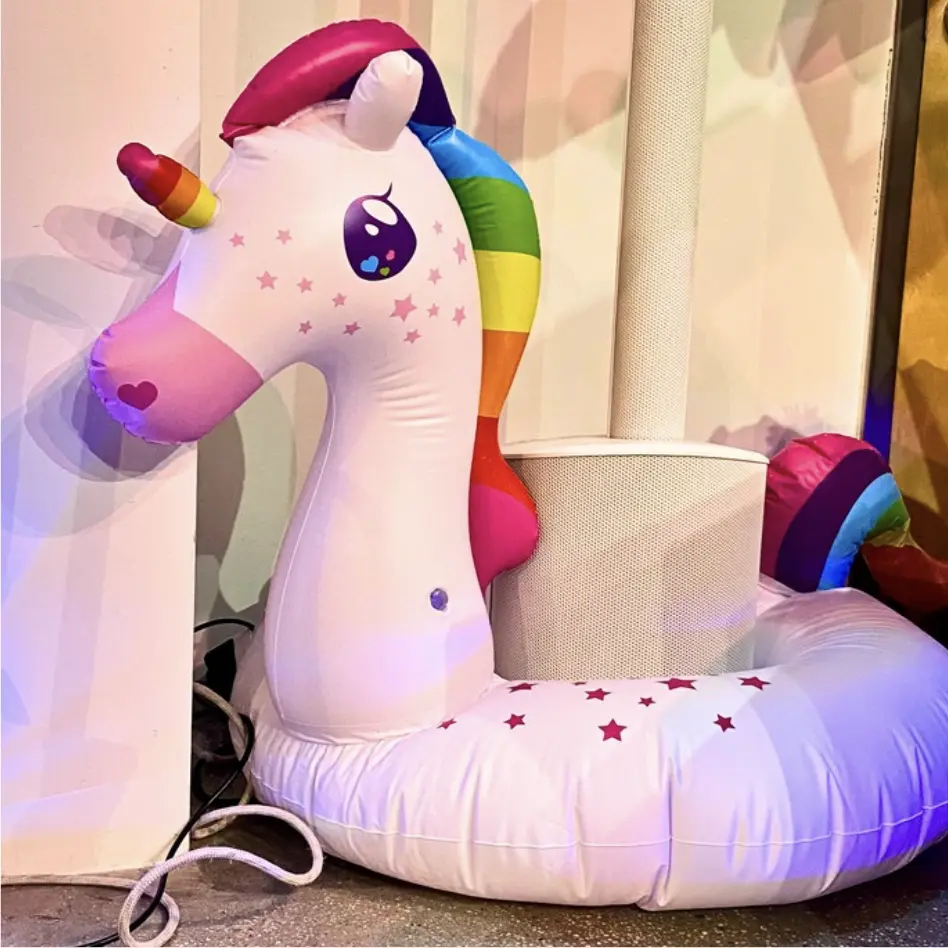
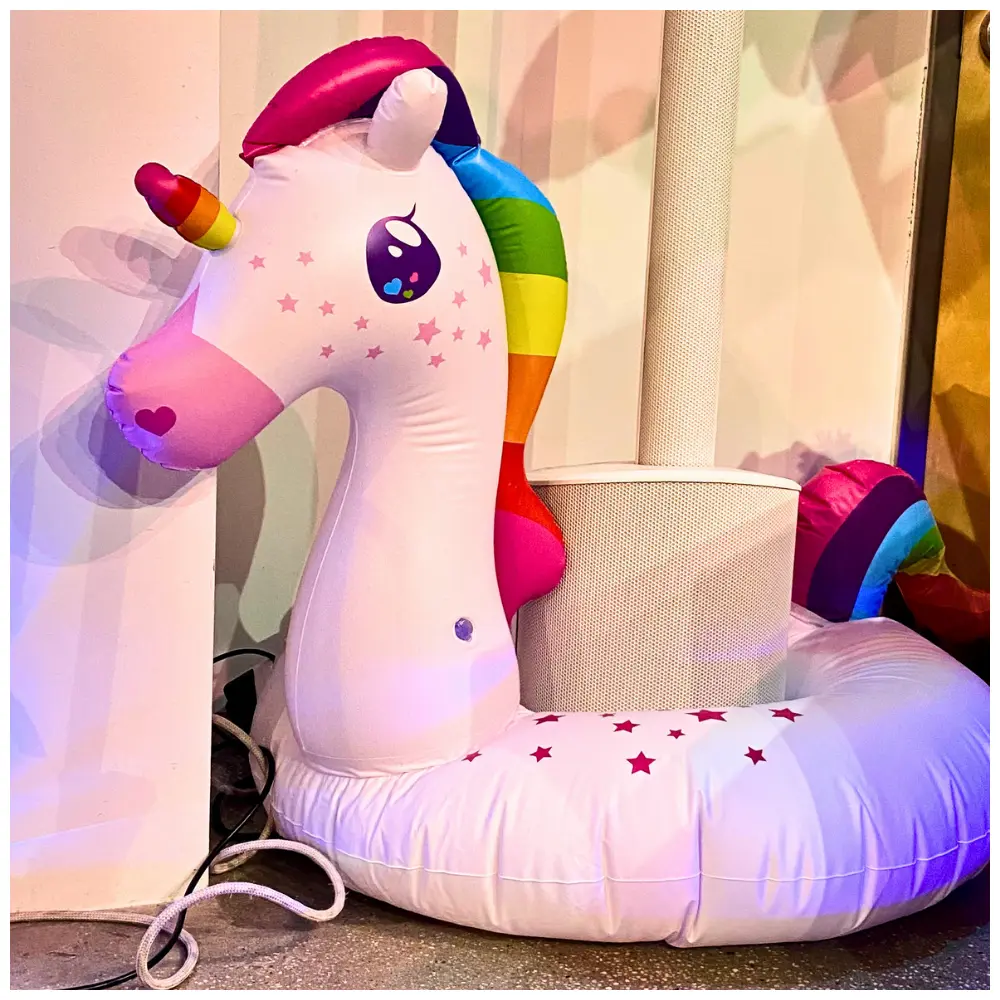
update imgs prevote

diff --git a/src/lib/Prevote.svelte b/src/lib/Prevote.svelte
@@ -1,7 +1,7 @@
 <script>
 	import { onMount } from 'svelte';
 	import { flip } from 'svelte/animate';
-	import QR from '$lib/assets/qr.png';
+	import QR from '$lib/assets/QR.webp';
 
 	// Pre-show holding screen for the deck (slide 0). LEFT: the three setpiece
 	// props, each a thumbnail + its live vote bar, re-ranked as votes land. RIGHT:
@@ -150,7 +150,7 @@
 		width: 12cqw;
 		aspect-ratio: 1 / 1;
 		border-radius: 1cqw;
-		border: 0.5cqw solid #fff;
+		border: 0.3cqw solid #fff;
 		box-shadow: 0 0.4cqw 1.2cqw rgba(0, 0, 0, 0.2);
 		overflow: hidden;
 	}
@@ -220,7 +220,6 @@
 	.qr {
 		width: 20cqw;
 		aspect-ratio: 1 / 1;
-		background: #000;
 		border-radius: 1cqw;
 	}
 
